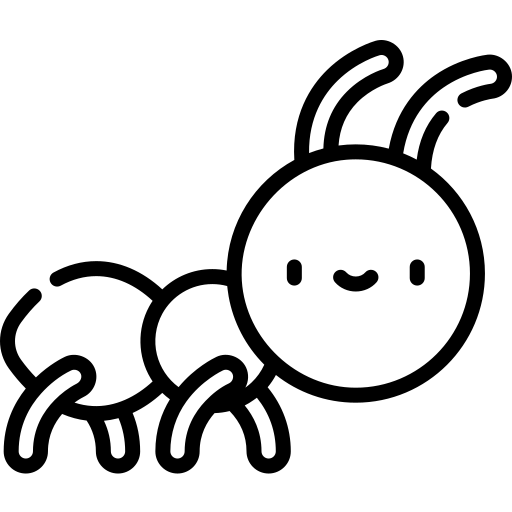
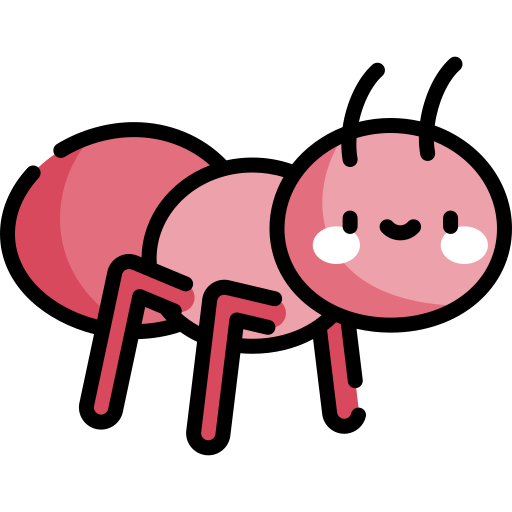
change ant png, fix pheromones for two colonies

diff --git a/ant/ant_pro/ant_algorithm_pro.js b/ant/ant_pro/ant_algorithm_pro.js
@@ -1,5 +1,12 @@
-import{slider,drawMap,antCount,colonyPos,ctx} from "./field.js";
+import{slider,drawMap,antCount,colonyPos} from "./field.js";
 
+class Pheromone {
+    constructor(){
+        this.home = 0;
+        this.food = 0;
+        this.family = 0;
+    }
+}
 class Ant {
     constructor(x, y, nation) {
         this.x = x;
@@ -12,6 +19,7 @@ class Ant {
         this.hot = 1;
         this.timeWithout = 0;
         this.nation = nation;
+        this.strength = 0;
     }
 
     moveAnt() {
@@ -21,47 +29,52 @@ class Ant {
     }
 
     followAnt() {
-        const searchRadius = 60;
+        const searchRadius = 30;
 
         let maxPheromone = -Infinity;
-        let minPheromone = +Infinity;
         let maxPheromoneX = this.x;
         let maxPheromoneY = this.y;
-        let minPheromoneX = this.x;
-        let minPheromoneY = this.y;
 
+
+        if (Math.random() < 0.05){
+            this.moveAnt();
+            return;
+        }
         for (let dx = -searchRadius; dx <= searchRadius; dx++) {
             for (let dy = -searchRadius; dy <= searchRadius; dy++) {
                 const newX = Math.floor(this.x) + dx;
                 const newY = Math.floor(this.y) + dy;
 
                 if (newX >= 0 && newX < 750 && newY >= 0 && newY < 500) {
-                    const currentPheromone = pheromones[newX][newY];
-                    if (currentPheromone > maxPheromone) {
-                        maxPheromone = currentPheromone;
-                        maxPheromoneX = newX;
-                        maxPheromoneY = newY;
-                    }
-                    if (currentPheromone < minPheromone){
-                        minPheromone = currentPheromone;
-                        minPheromoneX = newX;
-                        minPheromoneY = newY;
+                    if (this.foundFood) {
+                        const currentPheromone = pheromones[newX][newY].home;
+                        if (currentPheromone > maxPheromone && pheromones[newX][newY].family === this.nation) {
+                            maxPheromone = currentPheromone;
+                            maxPheromoneX = newX;
+                            maxPheromoneY = newY;
+                        }
+                    } else {
+                        const currentPheromone = pheromones[newX][newY].food;
+                        if (currentPheromone > maxPheromone && pheromones[newX][newY].family === this.nation) {
+                            maxPheromone = currentPheromone;
+                            maxPheromoneX = newX;
+                            maxPheromoneY = newY;
+                        }
                     }
                 }
             }
         }
 
-        const angleToMaxPheromone = Math.atan2(maxPheromoneY - this.y, maxPheromoneX - this.x);
-        const angleToMinPheromone= Math.atan2(minPheromoneY - this.y, minPheromoneX - this.x);
-        if (!this.foundFood){
+        if (maxPheromone === -Infinity) {
+            this.following = false;
+            this.moveAnt();
+        } else {
+            const angleToMaxPheromone = Math.atan2(maxPheromoneY - this.y, maxPheromoneX - this.x);
             this.x += this.speed * Math.cos(angleToMaxPheromone);
             this.y += this.speed * Math.sin(angleToMaxPheromone);
         }
-        else {
-            this.x += this.speed * Math.cos(angleToMinPheromone);
-            this.y += this.speed * Math.sin(angleToMinPheromone);
-        }
     }
+
 
     updateAnt(){
         let prevMove=[this.x,this.y];
@@ -94,6 +107,7 @@ class Ant {
                 this.direction += Math.PI;
                 this.foundFood = false;
                 this.following = false;
+                this.strength++;
             }
             this.hot = 1;
             this.timeWithout = 0;
@@ -101,8 +115,9 @@ class Ant {
 
         // оставление феромонов
         if (this.foundFood === false){
-            pheromones[Math.floor(this.x)][Math.floor(this.y)] -= 400*this.hot;
-        } else {pheromones[Math.floor(this.x)][Math.floor(this.y)] += 400*this.hot; }
+            pheromones[Math.floor(this.x)][Math.floor(this.y)].home += 400*this.hot;
+        } else {pheromones[Math.floor(this.x)][Math.floor(this.y)].food += 400*this.hot; }
+        pheromones[Math.floor(this.x)][Math.floor(this.y)].family = this.nation;
         this.pheromonePath.push({x:Math.floor(this.x),y:Math.floor(this.y)});
         this.hot*=0.95;
         this.timeWithout ++;
@@ -115,7 +130,7 @@ function reset(){
     for (let i = 0;i<750;i++){
         pheromones[i]=[];
         for (let j = 0; j < 500; j++) {
-            pheromones[i][j] = 0;
+            pheromones[i][j] = new Pheromone();
         }
     }
 }
@@ -125,7 +140,7 @@ function mapInit(){
         map[i]=[];
         pheromones[i]=[];
         for (let j = 0; j < 500; j++) {
-            pheromones[i][j] = 0;
+            pheromones[i][j] = new Pheromone();
         }
     }
 }

diff --git a/ant/ant_pro/field.js b/ant/ant_pro/field.js
@@ -107,26 +107,31 @@ function drawMap(ants) {
         for (let j = 0; j < ants[i].pheromonePath.length; j++) {
             const x = ants[i].pheromonePath[j].x;
             const y = ants[i].pheromonePath[j].y;
-            if (pheromones[x][y] < -0.001 ) {
+            if (pheromones[x][y].home > 0.001 ) {
                 if (ants[i].nation === 0) {
                     ctx.fillStyle = 'mediumpurple';
-                } else {ctx.fillStyle = 'lightgray';}
-                ctx.fillRect(x, y, 1, 1);
-                pheromones[x][y] *= 0.99;
-            }
-            else if (pheromones[x][y] > 0.001){
-                if (ants[i].nation === 0) {
-                    ctx.fillStyle = 'lawngreen';
                 } else {ctx.fillStyle = 'red';}
                 ctx.fillRect(x, y, 1, 1);
-                pheromones[x][y] *= 0.99;
+                pheromones[x][y].home *= 0.99;
+            }
+            else if (pheromones[x][y].food > 0.001){
+                if (ants[i].nation === 0) {
+                    ctx.fillStyle = 'lawngreen';
+                } else {ctx.fillStyle = 'lightgray';}
+                ctx.fillRect(x, y, 1, 1);
+                pheromones[x][y].food *= 0.99;
             }
             else {
                 ants[i].pheromonePath.splice(j,1);
+                pheromones[x][y].food = 0; pheromones[x][y].home = 0;
             }
 
         }
-        ctx.drawImage(antImage, ants[i].x - 10, ants[i].y - 10, 10, 10);
+        if (ants[i].nation === 0) {
+            ctx.drawImage(antImage, ants[i].x - 10, ants[i].y - 10, 10, 10);
+        } else {
+            ctx.drawImage(anotherAntImage, ants[i].x - 10, ants[i].y - 10, 10, 10);
+        }
     }
 
     if (colonyPos.length > 0){ drawColony();}
@@ -171,7 +176,9 @@ let drawingWalls = false;
 let drawingFood = false;
 let isDrawing = false;
 let antImage = new Image();
+let anotherAntImage = new Image ();
 antImage.src = '../../source/ant_algorithm_images/ant.png';
+anotherAntImage.src = '../../source/ant_algorithm_images/anotherAnt.png';
 
 export {slider,antCount,colonyPos,drawMap,ctx};
 document.addEventListener('DOMContentLoaded', () => {

diff --git a/ant/ant_pro/ant_pro.html b/ant/ant_pro/ant_pro.html
@@ -91,7 +91,7 @@
             <div><button id="delete"><img src="../../source/ant_algorithm_images/delete.png" alt="Кнопка «DELETE»"></button></div>
         </div>
         <div class="slider-container">
-            <label for="ants"></label><input type="range" min="10" max="100" value="50" step="10" class="slider" id="ants">
+            <label for="ants"></label><input type="range" min="10" max="100" value="50" step="5" class="slider" id="ants">
             <p>ants: <span id="antsCount"></span></p>
             <label for="range"></label><input type="range" min="0" max="100" value="100" class="slider" id="range">
             <p>speed: <span id="value"></span> %</p>
